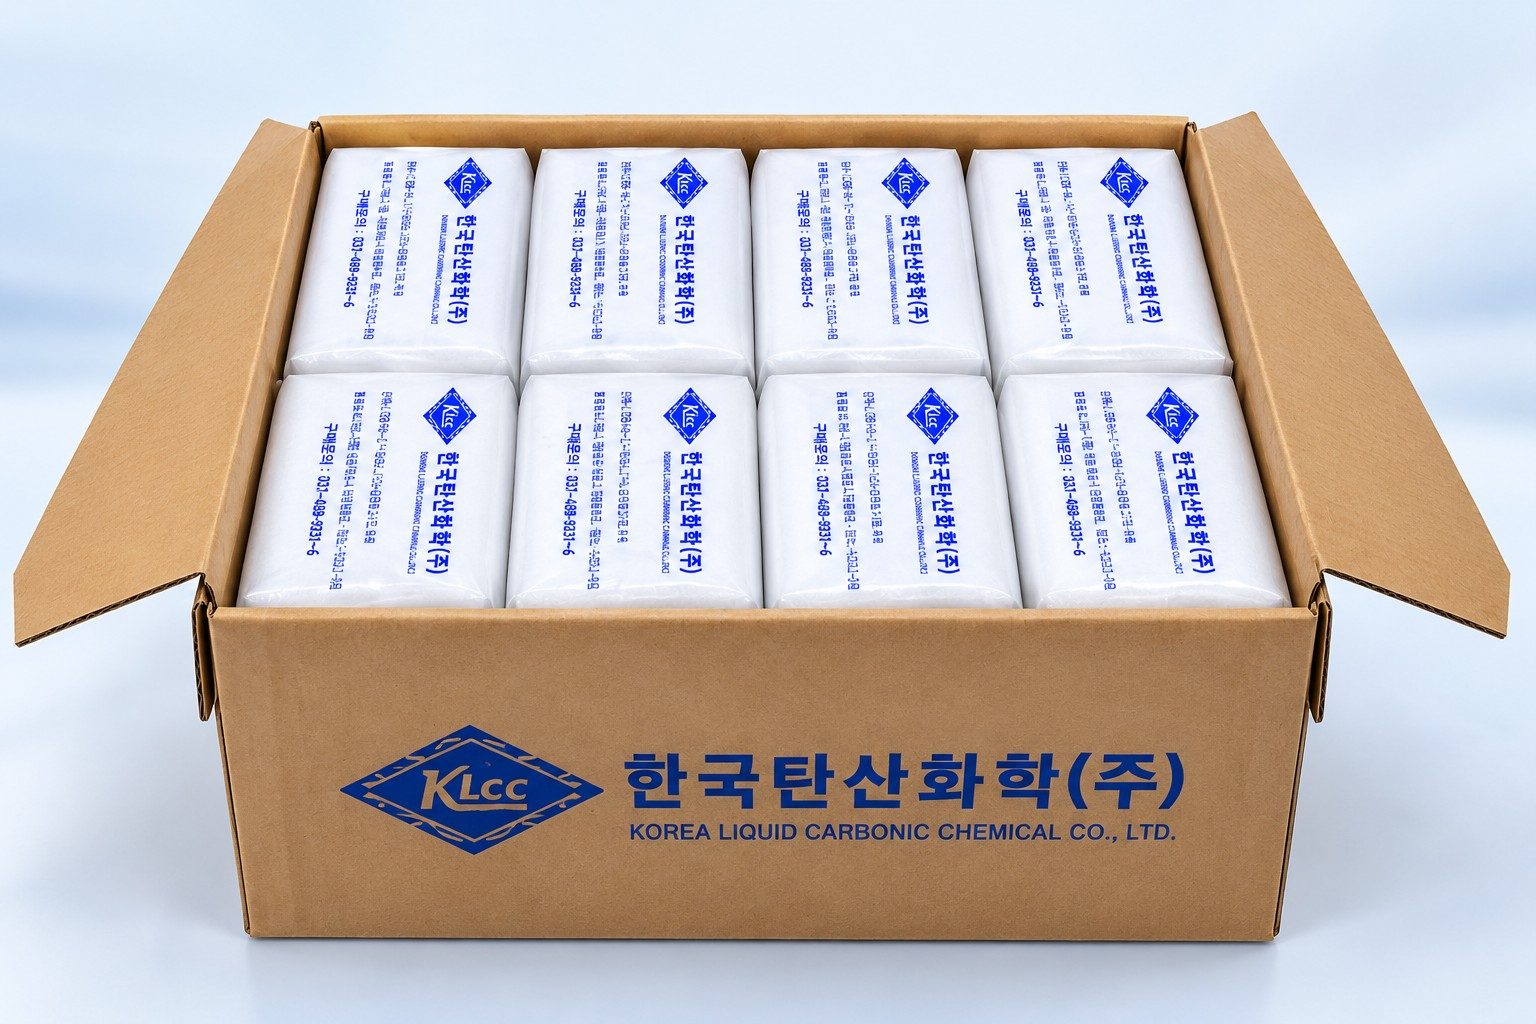
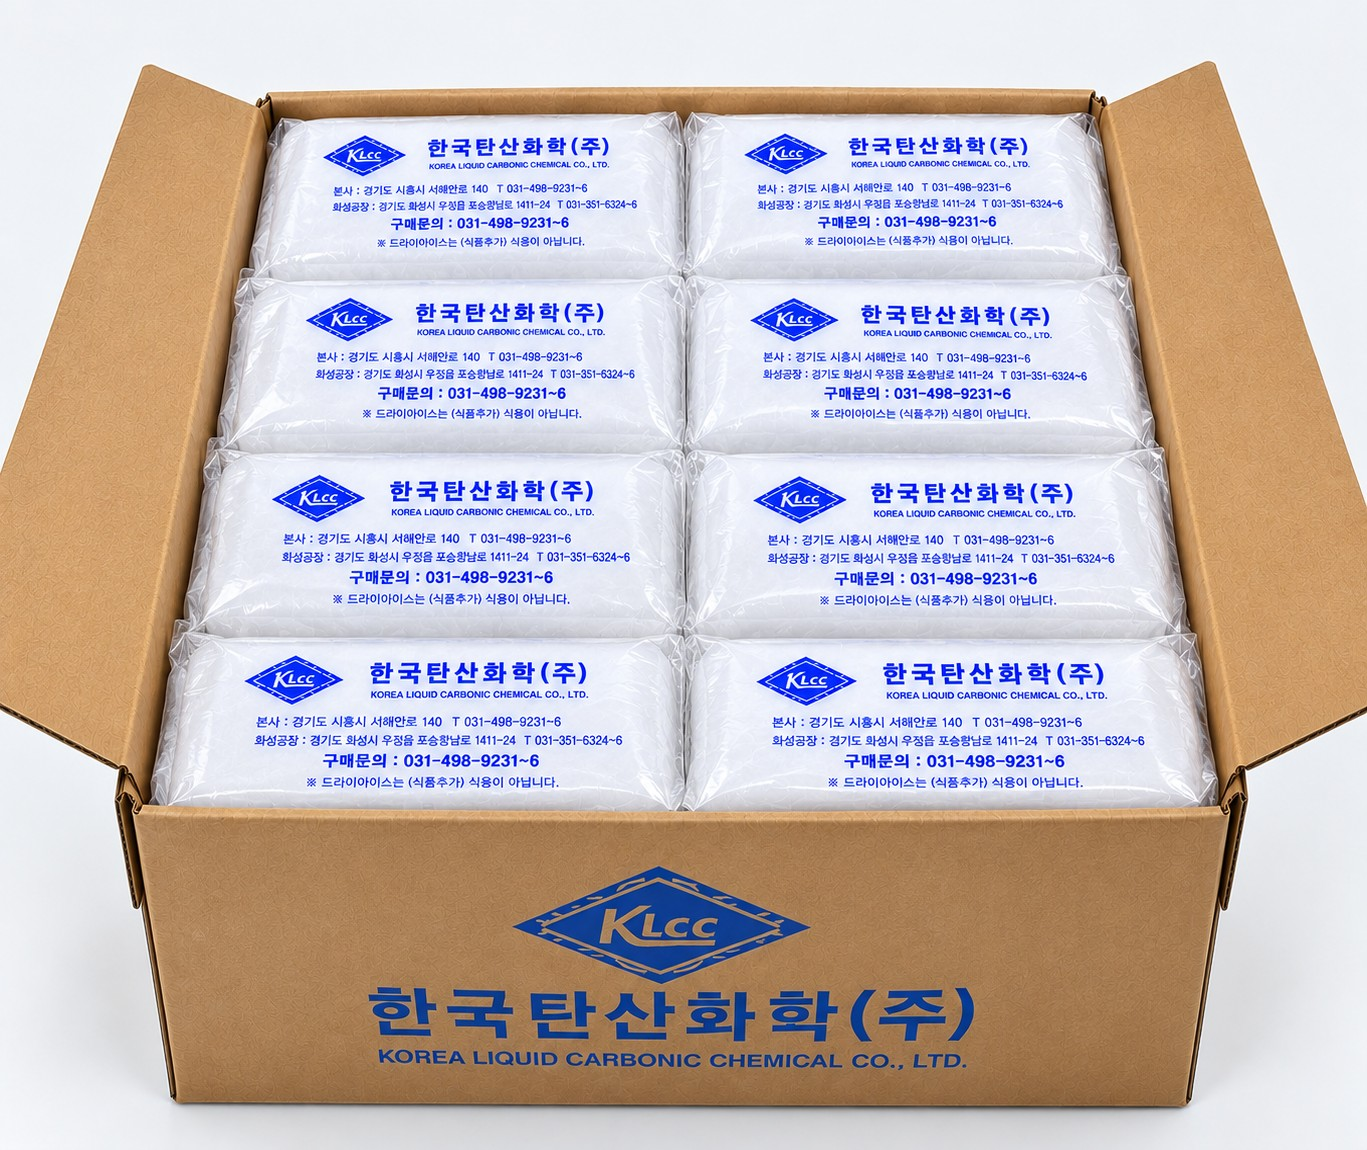
드라이아이스 48P BOX 포장 사진을 새 KLCC 오픈박스 이미지로 교체. ice-box-pack.jpg ?v=20260911

diff --git a/products-ice.html b/products-ice.html
@@ -317,7 +317,7 @@
                   <h5 class="pkgspec__infotitle">포장 상세정보</h5>
                 </div>
                 <div class="pkgspec">
-                  <div class="pkgspec__photo"><img src="assets/images/site/ice-box-pack.jpg?v=20260910d" alt="한국탄산화학㈜ 48P 드라이아이스 박스 포장" loading="lazy"></div>
+                  <div class="pkgspec__photo"><img src="assets/images/site/ice-box-pack.jpg?v=20260911" alt="한국탄산화학㈜ 48P 드라이아이스 박스 포장" loading="lazy"></div>
                   <div class="pkgspec__info">
                     <div class="pkgcard">
                     <ul class="pkgdetail">
